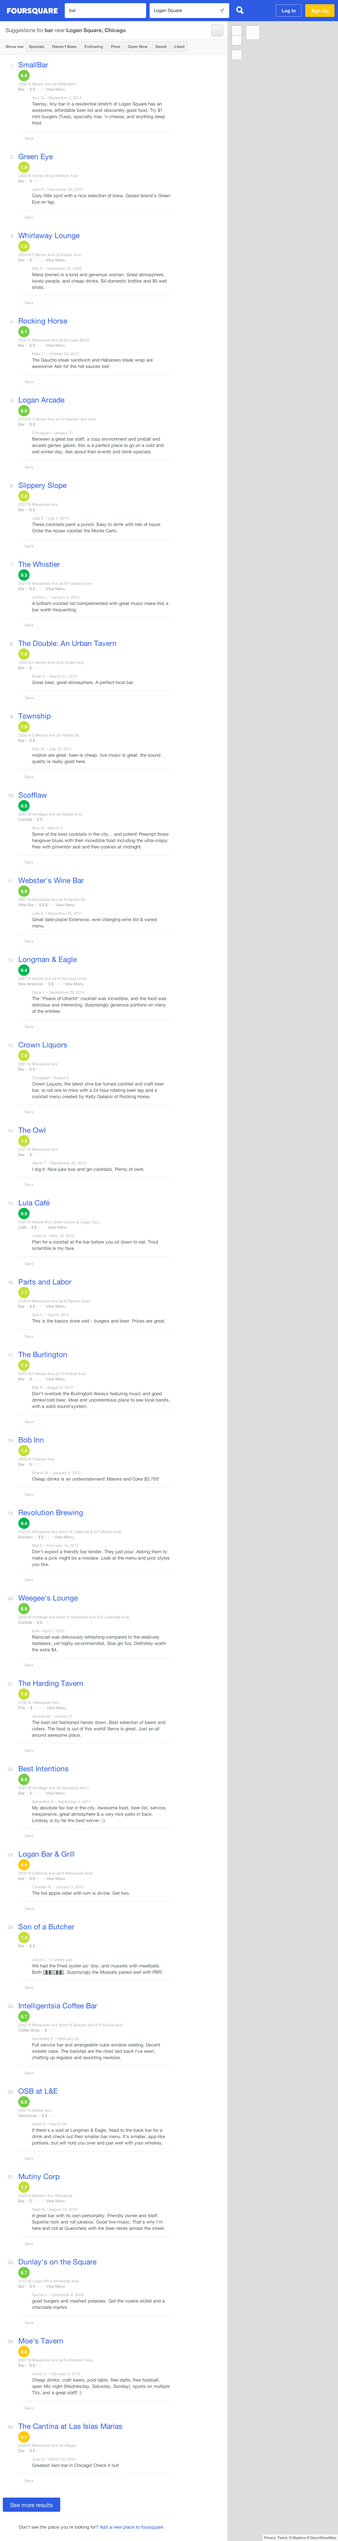
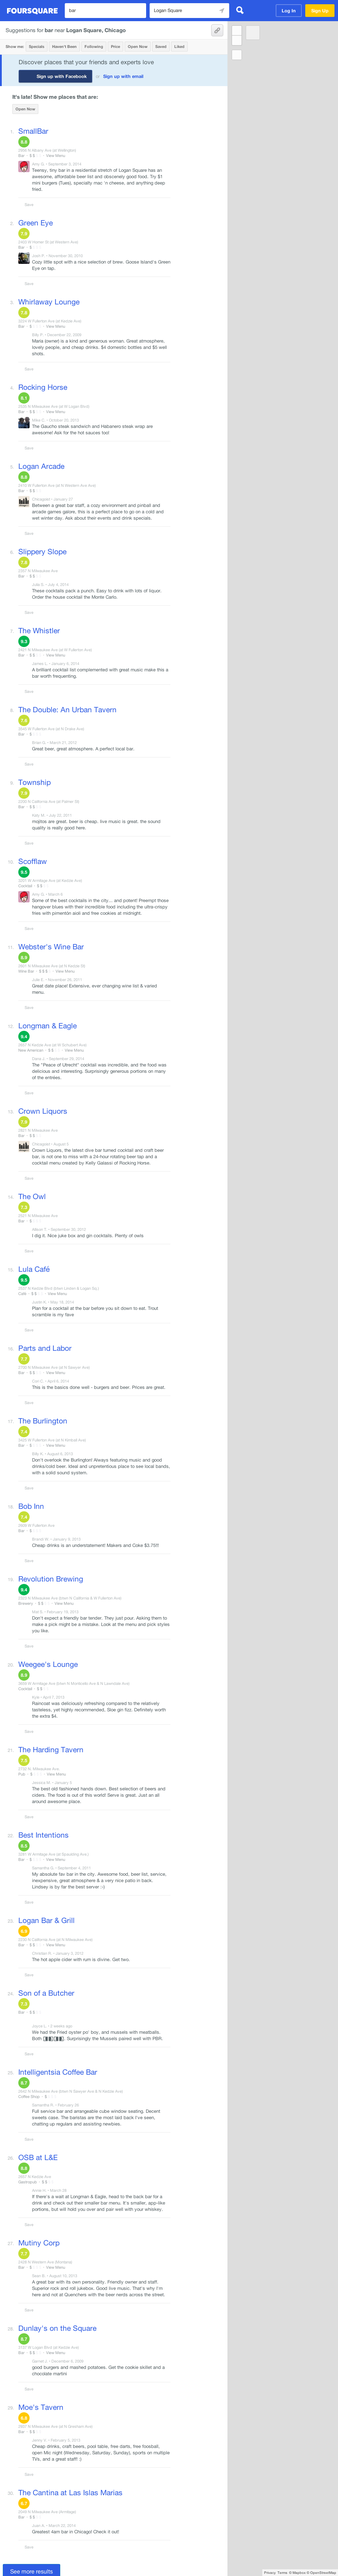
Add pagination

Changed region(s): [[0.0, 0.0, 0.6875, 1.0], [0.3125, 0.6247, 0.375, 0.656]]

diff --git a/foursquare.js b/foursquare.js
@@ -78,9 +78,36 @@ do { phantom.page.sendEvent('mousemove'); } while (page.evaluate(function() {
 console.log('Search finished!');
 page.render(screenshotPath + screenshotNum++ + '.png');
 
+// Click on 'See more results' button to get full list
+while(page.evaluate(function() { 
+        return $(".blueButton").is(":visible");
+      })) {
+  phantom.page.sendEvent('mousemove');
+  
+  // Only click on button if page isn't loading
+  page.evaluate(function() { 
+    if (!$("#loadingResults").is(":visible") && $(".blueButton").is(":visible")) {
+      var ev = document.createEvent('MouseEvents');
+      ev.initEvent('click', true, true);
+      var element = document.querySelector('.blueButton');
+      console.log('clicking on element: ' + element);
+      element.dispatchEvent(ev);
+    }
+  });
+}
+// Make sure that all bars finished loading
+do { phantom.page.sendEvent('mousemove'); } while (page.evaluate(function() { 
+  if (!$("#loadingResults").is(":visible") && !$(".blueButton").is(":visible")) {
+    return false;
+  }
+  return true;
+}));
+page.render(screenshotPath + screenshotNum++ + '.png');
+
 // Get list of bars
 var barList = page.evaluate(function() {
   var venueElements = document.querySelectorAll('.venueName h2 a');
+  console.log('venue list size: ' + venueElements.length);
   var barLinkList = [];
   for (var i = 0; i < venueElements.length; ++i) {
     barLinkList.push(venueElements[i].href);
